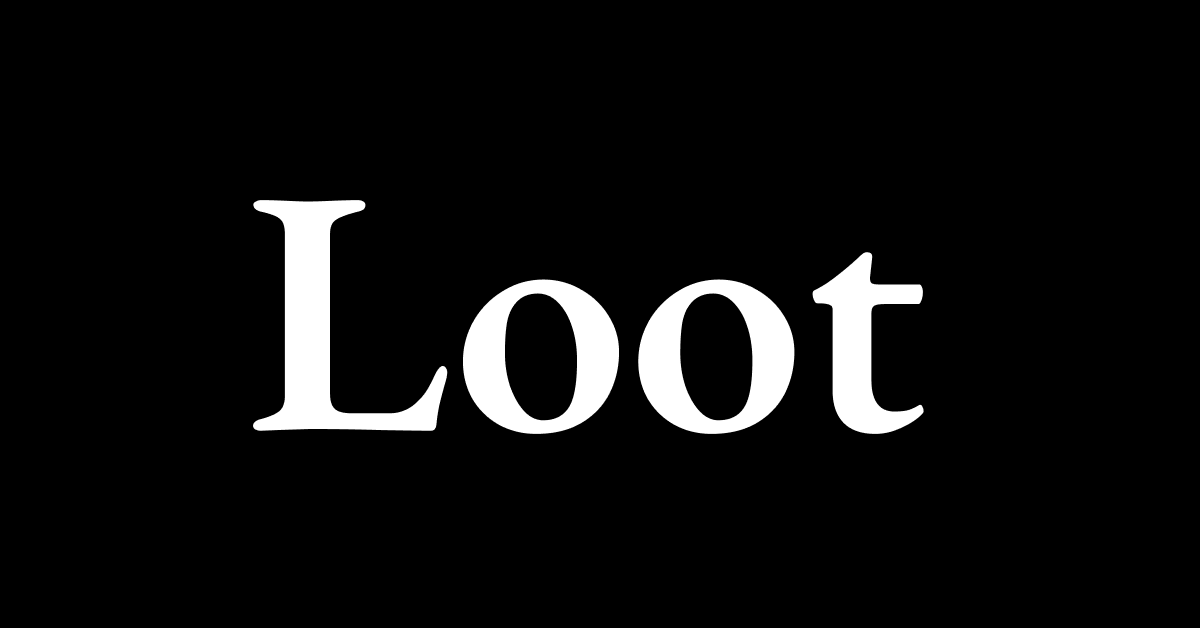
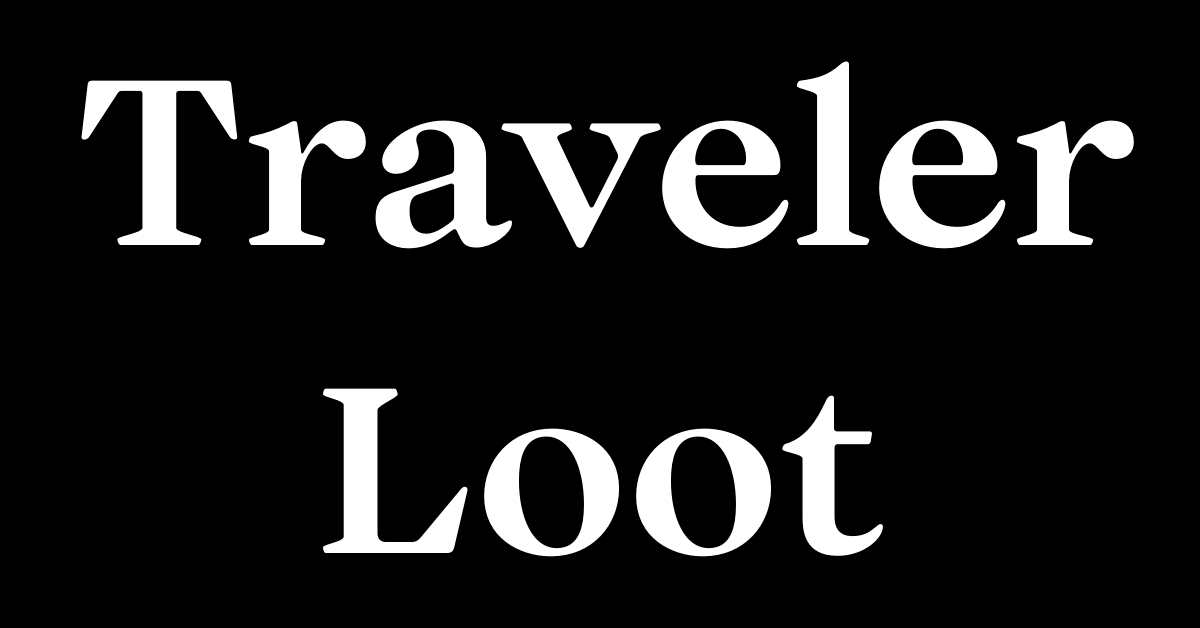
removed assets, changed preview image

Changed region(s): [[0.0617, 0.0908, 0.9558, 0.9076]]

diff --git a/components/Head.js b/components/Head.js
@@ -18,23 +18,23 @@ function Head() {
 
       {/* OG + Faceook */}
       <meta property="og:type" content="website" />
-      <meta property="og:url" content="https://travelerloot.web.app" />
+      <meta property="og:url" content="https://www.travelerloot.com" />
       <meta property="og:title" content="Traveler Loot" />
       <meta
         property="og:description"
         content="Traveler Loot is randomized character generated and stored on chain."
       />
-      <meta property="og:image" content="https://travelerloot.web.app/meta.png" />
+      <meta property="og:image" content="https://www.travelerloot.com/meta.png" />
 
       {/* Twitter */}
       <meta property="twitter:card" content="summary_large_image" />
-      <meta property="twitter:url" content="https://travelerloot.web.app" />
+      <meta property="twitter:url" content="https://www.travelerloot.com" />
       <meta property="twitter:title" content="Traveler Loot" />
       <meta
         property="twitter:description"
         content="Traveler Loot is randomized character generated and stored on chain."
       />
-      <meta property="twitter:image" content="https://travelerloot.web.app/meta.png" />
+      <meta property="twitter:image" content="https://www.travelerloot.com/meta.png" />
 
       {/* Font */}
       <link rel="preconnect" href="https://fonts.googleapis.com" />
